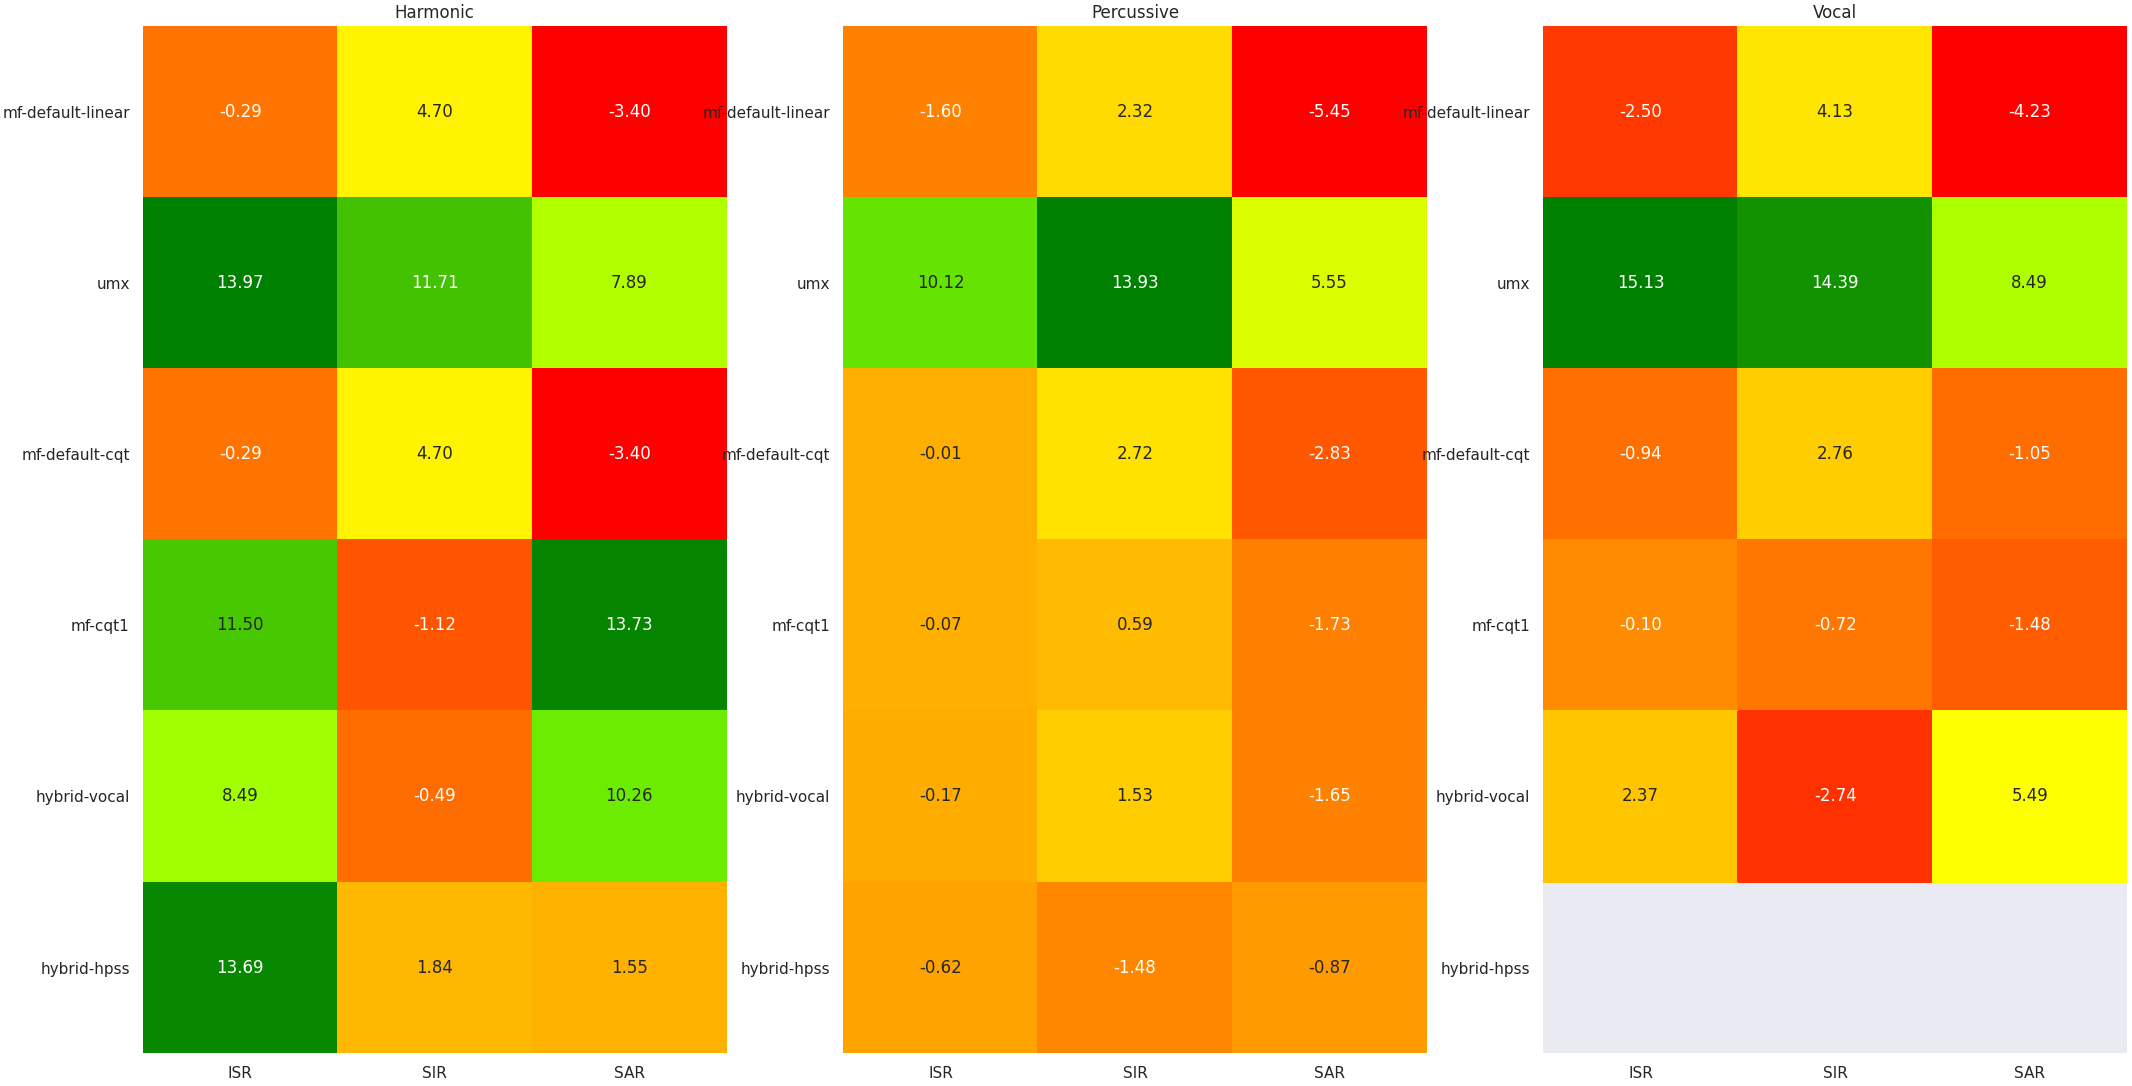
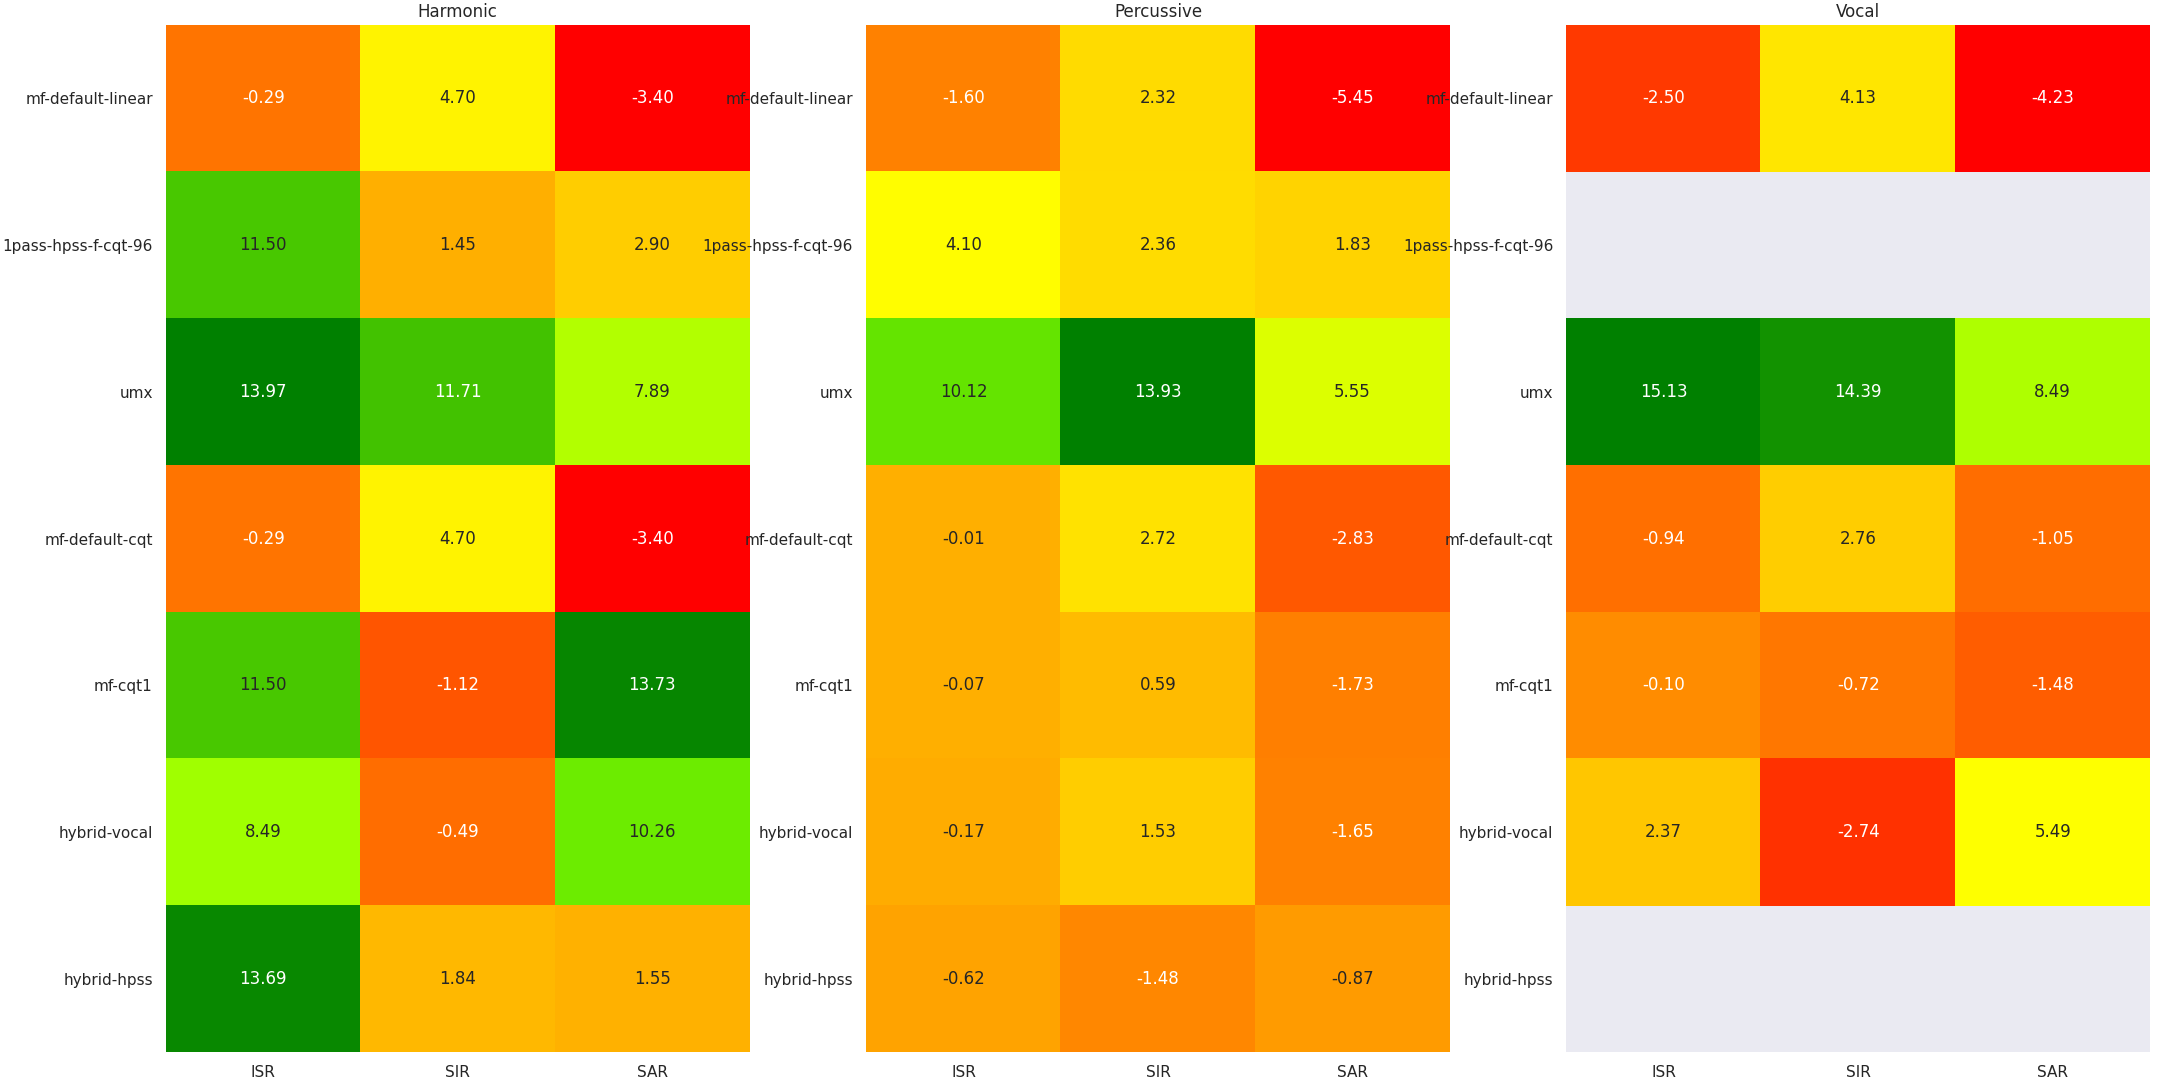
Add CQT-96 to vocal eval - write more of report

diff --git a/latex/report.tex b/latex/report.tex
@@ -3,6 +3,7 @@
 \usepackage[shortlabels]{enumitem}
 \usepackage{graphicx}
 \usepackage{amsmath}
+\usepackage[titletoc,title]{appendix}
 \usepackage{amssymb}
 \usepackage{makecell}
 \usepackage{wrapfig}
@@ -207,6 +208,10 @@ Second, the terms sparse signal representation and entropy are encountered in TF
 \subsection{\textbf{\textcolor{red}{TODO }}Gabor dictionaries and time-frequency representations}
 
 \subsection{\textbf{\textcolor{red}{TODO }}Sparsity, entropy, and matching pursuit}
+\label{sec:theorysparsity}
+
+\vfill
+\clearpage
 
 %%%%%%%%%%%%%%%
 % METHODOLOGY %
@@ -241,9 +246,9 @@ The SigSep (\href{https://sigsep.github.io/}{https://sigsep.github.io/}) communi
 
 \subsection{Evaluated music}
 
-The most popular music stem dataset used by SISEC and SigSep is the MUSDB18 dataset \cite{musdb18} (or the HQ, high-quality, equivalent \cite{musdb18-hq}). MUSDB18-HQ contains stems (.wav files per component/instrument, e.g., drum.wav, vocal.wav, bass.wav) from a collection of permissively licensed music, specifically intended for recording, mastering, mixing (and in this case, ``de-mixing'', or source separation) research. 
+The most popular music stem dataset used by SISEC and SigSep is the MUSDB18 dataset \cite{musdb18} (or the HQ, high-quality, equivalent \cite{musdb18-hq}). MUSDB18-HQ contains stereo wav files sampled at 44100 Hz representing stems (drum, vocal, bass, and other) from a collection of permissively licensed music, specifically intended for recording, mastering, mixing (and in this case, ``de-mixing'', or source separation) research. 
 
-A limited subset of MUSDB18-HQ was evaluated, or 5 total minutes of music, consisting of 4 segments of 15 seconds duration taken from 5 separate tracks. One data set was prepared for harmonic/percussive separation evaluation (vocals omitted from the mix), and one data set for harmonic/percussive/vocal evaluation (vocals are present). The evaluation was limited to 5 minutes of music since the PEASS measure is computationally expensive.
+A limited subset of MUSDB18-HQ was evaluated, or 5 total minutes of music, consisting of 4 segments of 15 seconds duration taken from 5 separate tracks. The algorithms are sample rate agnostic, so the sample rate of MUSDB18-HQ is used (44100 Hz). For simplicity, only mono audio is supported in the algorithms, and the conversion from stereo to mono is done in the Python wav segmentation script. One data set was prepared for harmonic/percussive separation evaluation (vocals omitted from the mix), and one data set for harmonic/percussive/vocal evaluation (vocals are present). The evaluation was limited to 5 minutes of music since the PEASS measure is computationally expensive.
 
 The songs in the MUSDB18-HQ dataset are split into train and test sets. Since the final comparison of this paper will consider a neural network model which was trained on MUSDB18, the evaluation data is taken from the test set -- if we took it from the training set, the neural network could overfit and overperform.
 
@@ -480,7 +485,7 @@ The parameters of Jigsaw Sep are as follows: $v2$ uses version 2 of the algorith
 	\label{table:round2jigsaw}
 \end{table}
 
-From the tested configurations in figure \ref{fig:jigsaw}, we can see that in fact, the harmonic separation of configuration \Verb#tfjigsaw-1# achieves excellent results for target and artifacts -- it does not have the highest interference score, but this is usually a tradeoff, with better interference resulting from more aggressive removal, which results in more artifacts. In a subjective listening test, \Verb#tfjigsaw-1# sounds the best. On the other hand, good parameters could not be found for percussive separation scores for the TFJigsaw, which almost all suffered from a low artifact score (i.e., suffered from a presence of artifacts). This doesn't necessarily mean that TFJigsaw  is bad at percussive separation -- further study might be required to explore why this is the case, and how the results can be improved.
+From the tested configurations in figure \ref{fig:jigsaw}, we can see that the harmonic separation of configuration \Verb#tfjigsaw-1# achieves excellent results for target and artifacts -- it does not have the highest interference score, but this is usually a tradeoff, with better interference resulting from more aggressive removal, which results in more artifacts. In a subjective listening test, \Verb#tfjigsaw-1# sounds the best. On the other hand, good parameters could not be found for percussive separation scores for the TFJigsaw, which almost all suffered from a low artifact score (i.e., suffered from a presence of artifacts). This doesn't necessarily mean that TFJigsaw  is bad at percussive separation -- further study might be required to explore why this is the case, and how the results can be improved.
 
 \begin{figure}[ht]
 	\centering
@@ -493,7 +498,73 @@ From the tested configurations in figure \ref{fig:jigsaw}, we can see that in fa
 \vfill
 \clearpage
 
-\subsubsection{\textbf{\textcolor{red}{TODO }}WMDCTLasso}
+\subsubsection{WMDCTLasso}
+
+The last algorithm, WMDCTLasso\cite{wmdct}, also implemented in LTFAT \cite{wmdct3}. As seen before, there are two settings for window sizes of the Gabor systems used for the WMDCT frames used in the tonal and transient Gabor systems. The default settings are a Hann window of size 4096 for the tonal system and 256 for the transient system. The algorithm is described in listing \ref{lst:wmdctlasso}.
+
+\begin{figure}[h]
+  \centering
+  \centering
+\begin{minted}[numbersep=\mintednumbersep,linenos,mathescape=true,breaklines,frame=single,escapeinside=||]{text}
+|$f = \text{mixed audio}$|
+|$F1 = \text{frametight}(\text{frame}(\text{wmdct}, \text{gauss}, \text{winsize}_{h}))\qquad\text{\textbf{WMDCT frame transform} }$|
+|$F2 = \text{frametight}(\text{frame}(\text{wmdct}, \text{gauss}, \text{winsize}_{p}))$|
+|$c1 = \text{franagrouplasso}(F1, f, \lambda_{h}, \text{soft}, \text{freq})$|
+|$c2 = \text{franagrouplasso}(F2, f, \lambda_{p}, \text{soft}, \text{time})$|
+|$xh = \text{frsyn}(F1, c1)\qquad\qquad\qquad\text{\textbf{Inverse WMDCT frame transform} }$|
+|$xp = \text{frsyn}(F2, c2)$|
+\end{minted}
+  \captionof{listing}{WMDCTLasso tonal/transient separation algorithm}
+  \label{lst:wmdctlasso}
+\end{figure}
+
+The \Verb#franagrouplasso# function is provided in the LFAT, and solves the group lasso regression problem in the time-frequency domain. The theoretical background was covered in section \ref{sec:theorysparsity}. It is used in the WMDCTLasso algorithm to search for tonal components (with the `freq' argument), and transient components (with the `time' argument). The parameters of WMDCT are $\lambda$, or sparsity, for the Group Lasso regression for each of the tonal and transient systems, and Gaussian window sizes for the WMDCT frames for each system. A variety of parameter combinations were tested, shown in table \ref{table:round2wmdct}. The defaults, taken from the demo, are window sizes of 256 (tonal) and 32 (transient), and lambda values of 0.8 (tonal) and 0.5 (transient) for the percussive system.
+
+\begin{table}[ht]
+	\centering
+\begin{tabular}{ |l|l|l|l|l|c|c|c|c|c| }
+	 \hline
+	  Name & $\lambda_{h}$ & $\lambda_{p}$ & $\text{winsize}_{h}$ & $\text{winsize}_{p}$ \\
+	 \hline
+	 \hline
+	 wmdctlasso-1 & 0.8 & 0.5 & 256 & 32 \\
+	 \hline
+	 wmdctlasso-2 & 0.8 & 0.5 & 4096 & 64 \\
+	 \hline
+	 wmdctlasso-3 & 0.8 & 0.5 & 16384 & 128 \\
+	 \hline
+	 wmdctlasso-4 & 0.8 & 0.5 & 16384 & 256 \\
+	 \hline
+	 wmdctlasso-5 & 0.8 & 0.5 & 4096 & 256 \\
+	 \hline
+	 wmdctlasso-6 & 1.0 & 1.0 & 4096 & 64 \\
+	 \hline
+	 wmdctlasso-7 & 0.5 & 0.5 & 16384 & 128 \\
+	 \hline
+	 wmdctlasso-8 & 0.2 & 0.2 & 16384 & 256 \\
+	 \hline
+	 wmdctlasso-9 & 0.9 & 0.4 & 4096 & 256 \\
+	 \hline
+	 wmdctlasso-10 (same as 1) & & & & \\
+	 \hline
+	 wmdctlasso-11 & 0.8 & 0.5 & 512 & 32 \\
+	 \hline
+	 wmdctlasso-12 & 0.8 & 0.5 & 1024 & 32 \\
+	 \hline
+	 wmdctlasso-13 & 0.8 & 0.5 & 256 & 16 \\
+	 \hline
+	 wmdctlasso-14 & 0.8 & 0.5 & 256 & 8 \\
+	 \hline
+	 wmdctlasso-15 & 1.0 & 1.0 & 256 & 32 \\
+	 \hline
+	 wmdctlasso-16 & 0.2 & 0.5 & 256 & 32 \\
+	 \hline
+\end{tabular}
+	\caption{WMDCT configurations}
+	\label{table:round2wmdct}
+\end{table}
+
+From the tested configurations in figure \ref{fig:wmdct}, we can see results that look more like the hard-masking HPSS results (in figure \ref{fig:round1hard}). Interference is good, at the expense of artifacts, or artifacts and target are good, at the expense of interference. Another interesting effect of the WMDCLasso algorithm is that during the listening test, the effect on percussion sounded like a noise gate, with harmonic and vocals briefly being audible during a drum hit and then being strongly suppressed after. However, none of the tested configurations showed promising PEASS results, or good quality separation in the listening tests.
 
 \begin{figure}[ht]
 	\centering
@@ -653,7 +724,21 @@ While the PEASS scores make the median-filtering based techniques look promising
 \clearpage % force a page break before references
 
 %\nocite{*}
-\printbibheading[title={References}]
+\section{References}
 \printbibliography[heading=none]
+
+\vfill
+\clearpage %force a page break
+
+\begin{appendices}
+\section{\textbf{\textcolor{red}{TODO }}Open-Unmix}
+
+describe how open-unmix works
+
+\section{\textbf{\textcolor{red}{TODO }}MiXiN}
+
+describe MiXiN
+
+\end{appendices}
 
 \end{document}
